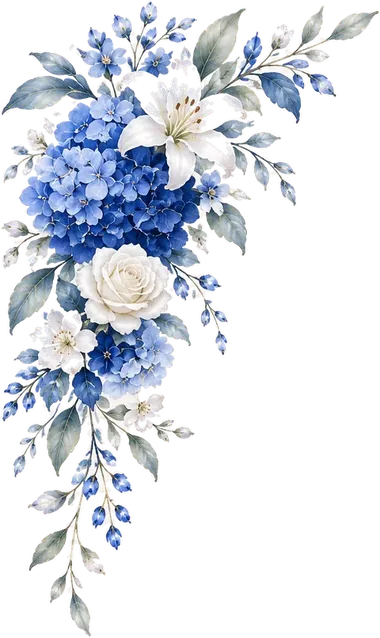
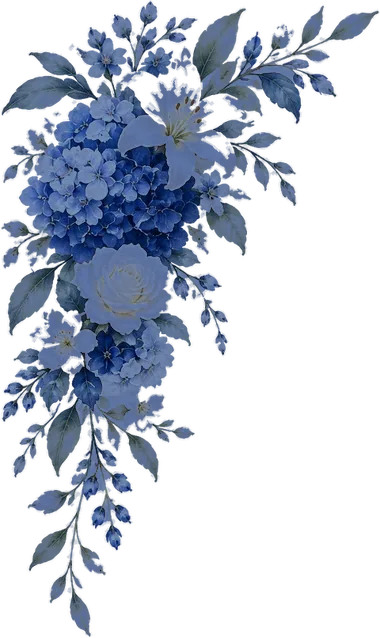
Tudo mais puxado para o azul-escuro; branco só em detalhes
- tools/tom_azul.py: escurece as ilustrações, aprofunda os azuis e leva os
  brancos grandes (lírios, rosas brancas) para azul-pó; aplicado a todas as flores
- Fundo, capa, cartões e botões mais escuros; luz prateada mais contida
- "Confirmar presença" e "Enviar pelo WhatsApp" em azul profundo com filete
  de prata (sai o botão prateado claro); aviso em azul
- Partículas azuladas e pétalas brancas só de vez em quando

Claude-Session: https://claude.ai/code/session_01HrQzDJ48b2GaZGgzArpSWo

diff --git a/assets/css/style.css b/assets/css/style.css
@@ -129,10 +129,10 @@ img { user-select: none; -webkit-user-select: none; -webkit-user-drag: none; }
 .ambient__light {
   inset: 0;
   background:
-    radial-gradient(75% 38% at 50% -6%, rgba(205, 218, 242, .2), transparent 72%),
+    radial-gradient(75% 38% at 50% -6%, rgba(150, 175, 230, .1), transparent 72%),
     radial-gradient(60% 45% at 105% 55%, rgba(42, 79, 181, .22), transparent 70%),
     radial-gradient(60% 45% at -8% 85%, rgba(42, 79, 181, .16), transparent 70%),
-    linear-gradient(180deg, transparent 55%, rgba(3, 7, 20, .55));
+    linear-gradient(180deg, rgba(3, 7, 20, .25), rgba(3, 7, 20, .45) 50%, rgba(3, 7, 20, .7));
 }
 /* feixe de luz diagonal que passeia devagar */
 .ambient__beam {
@@ -460,9 +460,9 @@ img { user-select: none; -webkit-user-select: none; -webkit-user-drag: none; }
   text-align: center;
   border-radius: 400px 400px 14px 14px;
   background:
-    radial-gradient(95% 42% at 50% 0%, rgba(120, 156, 236, .34), transparent 72%),
+    radial-gradient(95% 42% at 50% 0%, rgba(70, 110, 210, .26), transparent 72%),
     radial-gradient(70% 30% at 50% 100%, rgba(42, 79, 181, .22), transparent 70%),
-    linear-gradient(180deg, rgba(16, 36, 96, .9), rgba(8, 19, 54, .94) 60%, rgba(7, 16, 46, .96));
+    linear-gradient(180deg, rgba(10, 24, 70, .94), rgba(6, 14, 42, .96) 60%, rgba(4, 10, 32, .97));
   box-shadow: 0 50px 80px -40px rgba(0, 0, 0, .95), 0 0 70px rgba(42, 79, 181, .18);
 }
 /* moldura dupla de prata (degradê recortado na borda com máscara) */
@@ -538,7 +538,7 @@ img { user-select: none; -webkit-user-select: none; -webkit-user-drag: none; }
   position: relative; max-width: 420px; margin: 10px auto 0;
   padding: 30px 16px 74px;
   background:
-    linear-gradient(180deg, rgba(14, 30, 80, .5), rgba(6, 14, 40, .72)),
+    linear-gradient(180deg, rgba(8, 18, 54, .72), rgba(4, 10, 32, .86)),
     var(--navy-800) url(../img/texturas/papel-azul.webp) center / cover;
   border-radius: 6px;
   box-shadow: 0 40px 70px -36px rgba(0, 0, 0, .95), inset 0 1px 0 rgba(255, 255, 255, .08);
@@ -618,7 +618,7 @@ img { user-select: none; -webkit-user-select: none; -webkit-user-drag: none; }
   display: flex; align-items: center; gap: 14px;
   width: 100%; min-height: 70px; padding: 12px 16px;
   color: var(--silver-100);
-  background: linear-gradient(180deg, rgba(26, 50, 120, .62), rgba(10, 22, 62, .82));
+  background: linear-gradient(180deg, rgba(16, 34, 92, .7), rgba(6, 14, 42, .88));
   border: 1px solid rgba(197, 206, 219, .4); border-radius: 14px;
   box-shadow: inset 0 1px 0 rgba(255, 255, 255, .1), 0 14px 26px -16px rgba(0, 0, 0, .85);
   text-align: left; text-decoration: none; font-family: var(--serif);
@@ -641,27 +641,25 @@ img { user-select: none; -webkit-user-select: none; -webkit-user-drag: none; }
 .btn:active, .btn.is-pressed { transform: scale(.98); border-color: var(--silver-200); }
 @media (hover: hover) { .btn:hover { border-color: var(--silver-200); } }
 
-/* principal: prata polida, com reflexo de tempos em tempos */
+/* principal: azul profundo com filete de prata e um reflexo de tempos em tempos */
 .btn--primary {
   min-height: 78px;
-  color: var(--navy-900);
-  background: var(--foil);
-  border: 1px solid rgba(255, 255, 255, .7);
-  box-shadow: 0 18px 34px -16px rgba(0, 0, 0, .9), 0 0 34px rgba(90, 130, 230, .28), inset 0 1px 0 #fff, inset 0 -2px 0 rgba(20, 30, 60, .18);
-  text-shadow: 0 1px 0 rgba(255, 255, 255, .55);
+  color: var(--silver-100);
+  background: linear-gradient(180deg, #1f3f94 0%, #142c72 48%, #0c1d52 100%);
+  border: 1px solid rgba(197, 206, 219, .75);
+  box-shadow: 0 18px 34px -16px rgba(0, 0, 0, .9), 0 0 30px rgba(60, 100, 210, .3), inset 0 1px 0 rgba(255, 255, 255, .22), inset 0 0 0 3px rgba(12, 29, 82, .9), inset 0 0 0 4px rgba(197, 206, 219, .28);
 }
 .btn--primary b { font-size: .92rem; letter-spacing: .16em; }
-.btn--primary small { color: #33405f; }
-.btn--primary .btn__ico { color: var(--navy-800); border-color: rgba(13, 27, 71, .25); background: rgba(255, 255, 255, .35); }
+.btn--primary small { color: var(--silver-300); }
+.btn--primary .btn__ico { color: var(--silver-100); border-color: rgba(197, 206, 219, .45); background: rgba(4, 10, 30, .35); }
 .btn--primary::before {
   content: ""; position: absolute; top: 0; bottom: 0; left: 0; width: 40%; pointer-events: none;
-  background: linear-gradient(100deg, transparent, rgba(255, 255, 255, .8) 50%, transparent);
+  background: linear-gradient(100deg, transparent, rgba(190, 210, 255, .22) 50%, transparent);
   transform: translateX(-140%) skewX(-16deg);
   animation: btn-sheen 7s 1.5s ease-in-out infinite;
 }
 @keyframes btn-sheen { 0% { transform: translateX(-140%) skewX(-16deg); } 14%, 100% { transform: translateX(320%) skewX(-16deg); } }
-.btn--primary::after { background: rgba(255, 255, 255, .7); }
-.btn--primary:active, .btn--primary.is-pressed { border-color: #fff; filter: brightness(.96); }
+.btn--primary:active, .btn--primary.is-pressed { border-color: var(--silver-100); filter: brightness(1.1); }
 
 /* bloco "local": Como chegar + Waze + copiar endereço */
 .menu__place { display: grid; gap: 10px; padding: 10px; border: 1px solid var(--line-soft); border-radius: 20px; background: rgba(5, 12, 36, .32); }
@@ -689,7 +687,7 @@ img { user-select: none; -webkit-user-select: none; -webkit-user-drag: none; }
   background:
     radial-gradient(90% 34% at 50% 0%, rgba(120, 156, 236, .3), transparent 72%),
     radial-gradient(70% 30% at 0% 100%, rgba(42, 79, 181, .25), transparent 70%),
-    linear-gradient(180deg, rgba(16, 36, 96, .72), rgba(8, 19, 54, .86)),
+    linear-gradient(180deg, rgba(8, 20, 60, .8), rgba(4, 10, 32, .9)),
     var(--navy-800) url(../img/texturas/damasco.webp) center / cover;
   border-radius: 8px;
   box-shadow: 0 50px 80px -40px rgba(0, 0, 0, .95), 0 0 60px rgba(42, 79, 181, .2);
@@ -841,7 +839,7 @@ img { user-select: none; -webkit-user-select: none; -webkit-user-drag: none; }
 .toast {
   position: fixed; left: 50%; bottom: calc(24px + var(--safe-b)); z-index: 300;
   max-width: min(90vw, 420px); padding: 14px 22px;
-  background: var(--pearl); color: var(--ink); border-radius: 999px;
+  background: #0c1b4a; color: var(--silver-100); border: 1px solid var(--line); border-radius: 999px;
   font-size: 1.08rem; font-weight: 600; text-align: center; line-height: 1.3;
   box-shadow: 0 14px 30px rgba(0, 0, 0, .5);
   transform: translate(-50%, 20px); opacity: 0; pointer-events: none;

diff --git a/assets/js/app.js b/assets/js/app.js
@@ -706,7 +706,7 @@ const CONFIG = {
       return {
         x: Math.random() * W, y: qualquerAltura ? Math.random() * H * .7 : -20,
         s: 6 + Math.random() * 4.5, vy: .22 + Math.random() * .2, rot: Math.random() * 6.283, vr: (Math.random() - .5) * .012,
-        fase: Math.random() * 6.283, c: cores[Math.floor(Math.random() * cores.length)], i: Math.floor(Math.random() * 8), a: 0,
+        fase: Math.random() * 6.283, c: cores[Math.floor(Math.random() * cores.length)], i: [0, 1, 2, 4, 6, 0, 2, 4, 6, 3][Math.floor(Math.random() * 10)], a: 0,   // poucas brancas
       };
     }
     // tira com 6 florzinhas ilustradas (96 px cada); se não carregar, desenha uma versão simples
@@ -740,7 +740,7 @@ const CONFIG = {
       poeira.forEach((p) => {
         const a = .3 + p.pisca * (.5 + .5 * Math.sin(p.fase + t / 1000 * p.vel * 60));   // cintila devagar (9–26 s)
         ctx.globalAlpha = a;
-        ctx.fillStyle = '#e6ecf7';
+        ctx.fillStyle = '#a9c1ee';
         ctx.beginPath(); ctx.arc(p.x, p.y, p.r, 0, 6.283); ctx.fill();
         if (p.r > 1.4) {                              // halo discreto nas maiores
           ctx.globalAlpha = a * .18; ctx.beginPath(); ctx.arc(p.x, p.y, p.r * 3.2, 0, 6.283); ctx.fill();

diff --git a/tools/tom_azul.py b/tools/tom_azul.py
@@ -1,0 +1,27 @@
+#!/usr/bin/env python3
+"""Puxa as ilustrações para o azul-escuro: escurece o conjunto, aprofunda os azuis
+e transforma os brancos grandes (lírios, rosas brancas) em azul-pó; o branco fica
+só nos pontos de luz (miolos, reflexos).
+
+Uso: python3 tools/tom_azul.py <entrada.webp|png> <saida.webp> [intensidade 0-1]"""
+import sys
+import numpy as np
+from PIL import Image
+
+src, dst = sys.argv[1], sys.argv[2]
+k = float(sys.argv[3]) if len(sys.argv) > 3 else 1.0
+im = Image.open(src).convert('RGBA')
+a = np.asarray(im).astype(np.float32)
+rgb, al = a[..., :3] / 255, a[..., 3:]
+mx, mn = rgb.max(-1, keepdims=True), rgb.min(-1, keepdims=True)
+sat = (mx - mn) / np.maximum(mx, 1e-4)
+# quanto o pixel é "branco": claro e pouco saturado
+branco = np.clip((mx - .55) / .3, 0, 1) * np.clip(1 - sat / .28, 0, 1)
+azul_po = np.array([.48, .58, .82])                 # azul-pó acinzentado
+lum = rgb @ np.array([.3, .55, .15])
+tingido = azul_po * (.55 + .5 * lum[..., None])      # mantém o sombreado da pétala
+rgb = rgb * (1 - branco * .85 * k) + tingido * branco * .85 * k
+# escurece e aprofunda o azul no conjunto
+rgb = rgb * (1 - .26 * k) * np.array([1 - .16 * k, 1 - .08 * k, 1])
+out = np.concatenate([np.clip(rgb, 0, 1) * 255, al], -1).astype(np.uint8)
+Image.fromarray(out, 'RGBA').save(dst, 'WEBP', quality=82, method=6)
